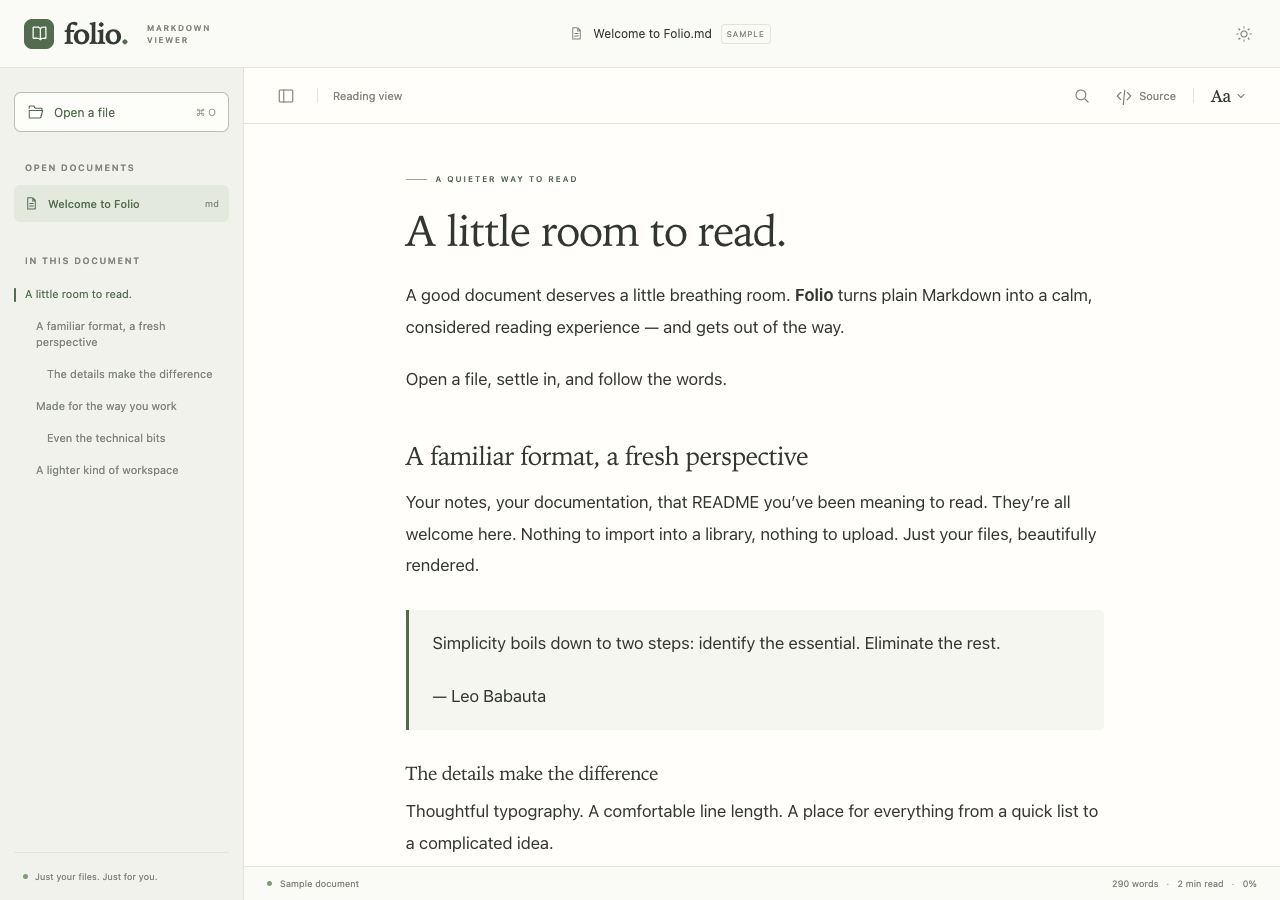
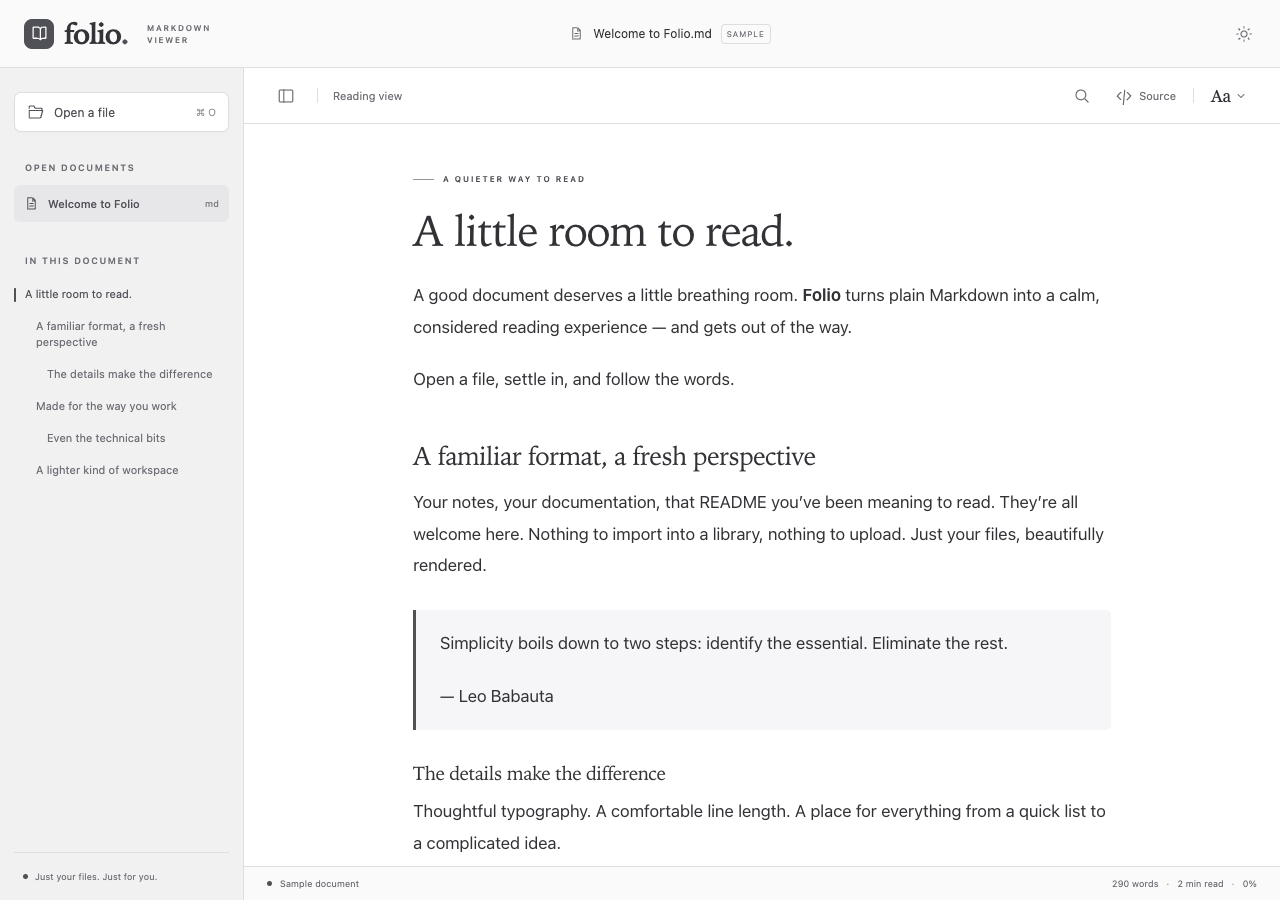
Add a neutral palette and custom reading tint

diff --git a/src/main.ts b/src/main.ts
@@ -2,6 +2,7 @@ import './reader.css';
 import './style.css';
 import { renderMarkdown } from './renderer';
 import { sample } from './sample';
+import { applyTint, normalizeTint } from './tint';
 import { capturePosition, restorePosition, scrollInstantly } from './reading-position';
 import { documentFromFile, isDesktop, native, openLink, type MarkdownDocument } from './platform';
 
@@ -36,12 +37,18 @@ let activeHeading = '';
 let toastTimer: ReturnType<typeof setTimeout>;
 let fontSize = 17;
 const readingStyles = [
-  { id: 'folio', name: 'Folio', description: 'Warm & spacious' },
+  { id: 'folio', name: 'Folio', description: 'Calm & spacious' },
   { id: 'code', name: 'VS Code', description: 'Compact & technical' },
   { id: 'writer', name: 'iA Writer', description: 'Classic serif' },
   { id: 'github', name: 'GitHub', description: 'Familiar & structured' },
 ] as const;
 let readingStyle: string = 'folio';
+let tint: string | null = null;
+const tintSwatches = [
+  { name: 'Blue', color: '#5776c8' }, { name: 'Purple', color: '#9365b8' },
+  { name: 'Rose', color: '#b96683' }, { name: 'Amber', color: '#bd8844' },
+  { name: 'Sage', color: '#638568' },
+];
 interface EditorInfo { name: string; path: string }
 let preferredEditor: EditorInfo | null = null;
 let editorBusy = false;
@@ -58,6 +65,7 @@ try {
   const settings = JSON.parse(localStorage.getItem('folio:settings') || '{}');
   if (['light','dark','system'].includes(settings.theme)) theme = settings.theme;
   if (readingStyles.some(style => style.id === settings.readingStyle)) readingStyle = settings.readingStyle;
+  tint = normalizeTint(settings.tint);
   if (Number.isFinite(settings.fontSize)) fontSize = Math.min(23, Math.max(14, settings.fontSize));
 } catch { /* Browser storage is optional. */ }
 
@@ -84,7 +92,7 @@ $('#app').innerHTML = `
       <footer class="statusbar"><div><span class="status-dot"></span><span id="file-status">Sample document</span><button id="reload" class="small-button" title="Reload from disk" aria-label="Reload from disk" hidden>${icon('refresh')}</button></div><div><span id="word-count"></span><span class="status-separator">·</span><span id="reading-time"></span><span class="status-separator">·</span><span id="reading-progress">0%</span></div></footer>
     </main>
   </div>
-  <div id="settings" class="settings-popover" hidden><div class="eyebrow">READING STYLE</div><div class="reading-styles">${readingStyles.map(style => `<button data-reading-style-option="${style.id}" aria-pressed="false"><span>${style.name}</span><small>${style.description}</small></button>`).join('')}</div><p class="settings-note">Inspired styles. Your Markdown stays unchanged.</p><div class="settings-divider"></div><div class="eyebrow">APPEARANCE</div><div class="theme-options">${['light','dark','system'].map((t,i) => `<button data-theme-option="${t}" aria-pressed="false">${icon(['sun','moon','monitor'][i])}<span>${t[0].toUpperCase()+t.slice(1)}</span></button>`).join('')}</div><div class="settings-divider"></div><div class="size-control"><span>Reading size</span><div><button id="smaller" aria-label="Decrease reading size">A−</button><output id="font-size"></output><button id="larger" aria-label="Increase reading size">A+</button></div></div><button id="reset-size" class="reset-button">Reset to default</button><div id="editor-settings" hidden><div class="settings-divider"></div><div class="eyebrow">EXTERNAL EDITOR</div><button id="choose-editor" class="editor-choice"><span id="editor-name">Choose an editor…</span>${icon('open')}</button><p class="settings-note">Save there. Folio refreshes here.</p></div></div>
+  <div id="settings" class="settings-popover" hidden><div class="eyebrow">READING STYLE</div><div class="reading-styles">${readingStyles.map(style => `<button data-reading-style-option="${style.id}" aria-pressed="false"><span>${style.name}</span><small>${style.description}</small></button>`).join('')}</div><p class="settings-note">Inspired styles. Your Markdown stays unchanged.</p><div class="settings-divider"></div><div class="eyebrow">APPEARANCE</div><div class="theme-options">${['light','dark','system'].map((t,i) => `<button data-theme-option="${t}" aria-pressed="false">${icon(['sun','moon','monitor'][i])}<span>${t[0].toUpperCase()+t.slice(1)}</span></button>`).join('')}</div><div class="settings-divider"></div><div class="eyebrow">TINT</div><div class="tint-controls"><label class="tint-picker"><input id="tint-picker" type="color" value="#5776c8" aria-label="Custom tint color" /><span>Custom color<output id="tint-value">Neutral</output></span></label><button id="neutral-tint" class="tint-neutral" aria-pressed="true">Neutral</button></div><div class="tint-swatches" role="group" aria-label="Tint presets">${tintSwatches.map(swatch => `<button class="tint-swatch" data-tint="${swatch.color}" style="--swatch:${swatch.color}" aria-label="${swatch.name} tint" title="${swatch.name}" aria-pressed="false"></button>`).join('')}</div><p class="settings-note">Choose a color for accents and a subtle page tint.</p><div class="settings-divider"></div><div class="size-control"><span>Reading size</span><div><button id="smaller" aria-label="Decrease reading size">A−</button><output id="font-size"></output><button id="larger" aria-label="Increase reading size">A+</button></div></div><button id="reset-size" class="reset-button">Reset to default</button><div id="editor-settings" hidden><div class="settings-divider"></div><div class="eyebrow">EXTERNAL EDITOR</div><button id="choose-editor" class="editor-choice"><span id="editor-name">Choose an editor…</span>${icon('open')}</button><p class="settings-note">Save there. Folio refreshes here.</p></div></div>
   <div id="drop-overlay" class="drop-overlay" hidden><div>${icon('open')}<h2>A good place for your words.</h2><p>Drop a Markdown file to start reading.</p></div></div>
   <div id="toast" class="toast" role="status" hidden></div>
   <input id="file-input" type="file" accept=".md,.markdown,.mdown,.mkd,text/markdown" hidden />
@@ -95,6 +103,11 @@ function settings() {
   const position = capturePosition($('#reading-scroll'), sourceMode ? $('#source-content') : $('#reader'));
   document.documentElement.dataset.theme = theme;
   document.documentElement.dataset.readingStyle = readingStyle;
+  applyTint(document.documentElement, tint);
+  if (tint) ($<HTMLInputElement>('#tint-picker')).value = tint;
+  $('#tint-value').textContent = tint ? tint.toUpperCase() : 'Neutral';
+  $('#neutral-tint').setAttribute('aria-pressed', String(tint === null));
+  document.querySelectorAll<HTMLButtonElement>('[data-tint]').forEach(button => button.setAttribute('aria-pressed', String(button.dataset.tint === tint)));
   document.documentElement.style.setProperty('--reading-size', `${fontSize}px`);
   $('#font-size').textContent = `${fontSize}`;
   document.querySelectorAll<HTMLButtonElement>('[data-theme-option]').forEach(button => button.setAttribute('aria-pressed', String(button.dataset.themeOption === theme)));
@@ -102,7 +115,7 @@ function settings() {
   restorePosition($('#reading-scroll'), sourceMode ? $('#source-content') : $('#reader'), position);
   $('#smaller').toggleAttribute('disabled', fontSize <= 14);
   $('#larger').toggleAttribute('disabled', fontSize >= 23);
-  try { localStorage.setItem('folio:settings', JSON.stringify({ theme, fontSize, readingStyle })); } catch { /* Optional. */ }
+  try { localStorage.setItem('folio:settings', JSON.stringify({ theme, fontSize, readingStyle, tint })); } catch { /* Optional. */ }
 }
 function notify(message: string) {
   const toast = $('#toast'); toast.textContent = message; toast.hidden = false;
@@ -318,6 +331,14 @@ $('#appearance').addEventListener('click', toggleSettings); $('#type').addEventL
 $('#settings').addEventListener('click', event => { const style = (event.target as Element).closest<HTMLElement>('[data-reading-style-option]')?.dataset.readingStyleOption; if (readingStyles.some(item => item.id === style)) { readingStyle = style!; settings(); } const option = (event.target as Element).closest<HTMLElement>('[data-theme-option]')?.dataset.themeOption; if (option) { theme = option as typeof theme; settings(); } });
 $('#smaller').addEventListener('click', () => { fontSize = Math.max(14,fontSize-1); settings(); });
 $('#larger').addEventListener('click', () => { fontSize = Math.min(23,fontSize+1); settings(); });
+for (const event of ['input', 'change']) $('#tint-picker').addEventListener(event, () => {
+  tint = normalizeTint($<HTMLInputElement>('#tint-picker').value); settings();
+});
+$('#neutral-tint').addEventListener('click', () => { tint = null; settings(); });
+$('.tint-swatches').addEventListener('click', event => {
+  const color = (event.target as Element).closest<HTMLElement>('[data-tint]')?.dataset.tint;
+  if (color) { tint = normalizeTint(color); settings(); }
+});
 $('#reset-size').addEventListener('click', () => { fontSize = 17; settings(); });
 $('#reload').addEventListener('click', () => { void refreshDocument(); });
 $('#edit-external').addEventListener('click', () => attempt(editExternally));

diff --git a/src/style.css b/src/style.css
@@ -1,17 +1,31 @@
+/* Neutral defaults; custom tint overrides only these palette variables. */
 :root {
-  --app-bg: #fafaf6; --sidebar-bg: #f1f2ec; --paper: #fdfdf9; --text: #343b34; --muted: #80867b; --subtle: #a0a599;
-  --border: #e2e5da; --accent: #536c4f; --active: #e3e9dc; --hover: #e9ede2; --shadow: 0 14px 50px #2535211a;
+  --app-light-bg: #fafafa; --app-light-sidebar: #f1f1f2; --app-light-paper: #ffffff;
+  --app-light-border: #dedee1; --app-light-accent: #505057; --app-light-active: #e7e7ea; --app-light-hover: #ececef;
+  --app-dark-bg: #1b1b1e; --app-dark-sidebar: #18181b; --app-dark-paper: #212124;
+  --app-dark-border: #3b3b40; --app-dark-accent: #c5c5cd; --app-dark-active: #35353c; --app-dark-hover: #2e2e34;
+  --app-bg: var(--app-light-bg); --sidebar-bg: var(--app-light-sidebar); --paper: var(--app-light-paper);
+  --border: var(--app-light-border); --accent: var(--app-light-accent); --active: var(--app-light-active); --hover: var(--app-light-hover);
+  --text: #343438; --muted: #6d6d74; --subtle: #96969e; --shadow: 0 14px 50px #18181b1a;
   font-family: -apple-system, BlinkMacSystemFont, 'Segoe UI', sans-serif; color: var(--text); background: var(--paper); font-synthesis: none;
 }
-:root[data-theme='dark'] { --app-bg:#202420; --sidebar-bg:#1c211c; --paper:#242923; --text:#dfe5db; --muted:#9ba594; --subtle:#737e6d; --border:#343e31; --accent:#b1c7a3; --active:#33402e; --hover:#2e3829; --shadow:0 14px 50px #0005; }
-@media(prefers-color-scheme:dark) { :root:not([data-theme='light']) { --app-bg:#202420; --sidebar-bg:#1c211c; --paper:#242923; --text:#dfe5db; --muted:#9ba594; --subtle:#737e6d; --border:#343e31; --accent:#b1c7a3; --active:#33402e; --hover:#2e3829; --shadow:0 14px 50px #0005; } }
+:root[data-theme='dark'] {
+  --app-bg: var(--app-dark-bg); --sidebar-bg: var(--app-dark-sidebar); --paper: var(--app-dark-paper);
+  --border: var(--app-dark-border); --accent: var(--app-dark-accent); --active: var(--app-dark-active); --hover: var(--app-dark-hover);
+  --text: #e4e4e8; --muted: #a6a6b0; --subtle: #797982; --shadow: 0 14px 50px #0005;
+}
+@media(prefers-color-scheme:dark) { :root:not([data-theme='light']) {
+  --app-bg: var(--app-dark-bg); --sidebar-bg: var(--app-dark-sidebar); --paper: var(--app-dark-paper);
+  --border: var(--app-dark-border); --accent: var(--app-dark-accent); --active: var(--app-dark-active); --hover: var(--app-dark-hover);
+  --text: #e4e4e8; --muted: #a6a6b0; --subtle: #797982; --shadow: 0 14px 50px #0005;
+} }
 * { box-sizing: border-box; }
 body { margin: 0; overflow:hidden; }
 button, input { font: inherit; }
 button { color: inherit; cursor: pointer; }
 button:disabled { opacity:.4; cursor:default; }
 button, a, input { -webkit-tap-highlight-color:transparent; }
-button:focus-visible, a:focus-visible { outline:2px solid var(--accent); outline-offset:3px; }
+button:focus-visible, a:focus-visible, input:focus-visible { outline:2px solid var(--accent); outline-offset:3px; }
 [hidden] { display:none !important; }
 #app { display:flex; flex-direction:column; height:100dvh; min-height:300px; }
 .titlebar { height:68px; flex-shrink:0; display:grid; grid-template-columns:280px 1fr 64px; align-items:center; border-bottom:1px solid var(--border); background:var(--app-bg); padding:0 20px 0 24px; }
@@ -28,7 +42,7 @@ button:focus-visible, a:focus-visible { outline:2px solid var(--accent); outline
 .workspace { display:flex; min-height:0; flex:1; }
 .sidebar { width:244px; flex-shrink:0; display:flex; flex-direction:column; border-right:1px solid var(--border); padding:24px 14px 0; background:var(--sidebar-bg); }
 .sidebar-hidden .sidebar { display:none; }
-.open-button { border:1px solid #b8c4ae; background:var(--paper); color:var(--accent); border-radius:7px; height:40px; display:flex; align-items:center; gap:9px; width:100%; padding:0 12px; font-size:12px; box-shadow:0 2px 3px #29332304; }
+.open-button { border:1px solid var(--border); background:var(--paper); color:var(--accent); border-radius:7px; height:40px; display:flex; align-items:center; gap:9px; width:100%; padding:0 12px; font-size:12px; box-shadow:0 2px 3px #18181b04; }
 .open-button:hover { background:var(--hover); }
 .open-button kbd { font-size:10px; font-family:inherit; margin-left:auto; opacity:.6; white-space:nowrap; }
 .sidebar-section { margin-top:30px; }
@@ -49,7 +63,7 @@ button:focus-visible, a:focus-visible { outline:2px solid var(--accent); outline
 #outline a[aria-current]::before { content:''; height:14px; width:2px; position:absolute; top:10px; left:0; background:var(--accent); border-radius:2px; }
 .outline-empty { font-size:11px; color:var(--muted); padding:0 11px; line-height:1.6; }
 .sidebar-footer { display:flex; align-items:center; gap:7px; font-size:9px; color:var(--muted); border-top:1px solid var(--border); padding:18px 9px; }
-.privacy-dot,.status-dot { display:inline-block; width:5px; height:5px; border-radius:50%; background:#859a76; }
+.privacy-dot,.status-dot { display:inline-block; width:5px; height:5px; border-radius:50%; background:var(--accent); }
 .main { min-width:0; flex:1; display:flex; flex-direction:column; background:var(--reader-paper); }
 .toolbar { flex-shrink:0; height:56px; display:flex; justify-content:space-between; align-items:center; padding:0 26px; border-bottom:1px solid var(--border); }
 .toolbar-start,.toolbar-end { display:flex; align-items:center; gap:15px; }
@@ -116,3 +130,16 @@ button:focus-visible, a:focus-visible { outline:2px solid var(--accent); outline
 #editor-name { overflow:hidden; text-overflow:ellipsis; white-space:nowrap; }
 #edit-external { color:var(--accent); }
 @media(max-width:850px) { #edit-external span { display:none; } .toolbar-end { gap:5px; } }
+
+.tint-controls { display:flex; align-items:center; justify-content:space-between; gap:12px; margin-top:12px; }
+.tint-picker { display:flex; align-items:center; gap:10px; font-size:11px; cursor:pointer; }
+.tint-picker input { width:40px; height:32px; padding:3px; border:1px solid var(--border); border-radius:7px; background:var(--paper); cursor:pointer; }
+.tint-picker input::-webkit-color-swatch-wrapper { padding:0; }
+.tint-picker input::-webkit-color-swatch { border:0; border-radius:4px; }
+.tint-picker input::-moz-color-swatch { border:0; border-radius:4px; }
+#tint-value { display:block; font-size:9px; font-variant-numeric:tabular-nums; color:var(--muted); margin-top:4px; }
+.tint-neutral { border:1px solid var(--border); border-radius:6px; background:transparent; padding:8px 10px; font-size:10px; }
+.tint-neutral[aria-pressed='true'] { color:var(--accent); border-color:var(--accent); background:var(--active); }
+.tint-swatches { display:flex; gap:12px; margin-top:13px; }
+.tint-swatch { width:22px; height:22px; border:3px solid var(--paper); border-radius:50%; background:var(--swatch); box-shadow:0 0 0 1px var(--border); padding:0; }
+.tint-swatch[aria-pressed='true'] { box-shadow:0 0 0 2px var(--accent); }

diff --git a/tests/viewer.spec.ts b/tests/viewer.spec.ts
@@ -53,6 +53,73 @@ test('changes appearance and size without losing document', async ({ page }) => 
   await expect(page.locator('#font-size')).toHaveText('18');
 });
 
+test('tint previews live, persists independently and resets without changing the document', async ({ page }) => {
+  await page.emulateMedia({ colorScheme: 'light' });
+  const original = await page.locator('#reader').innerText();
+  const neutralPaper = await page.locator('.reading-scroll').evaluate(el => getComputedStyle(el).backgroundColor);
+  await page.getByRole('button', { name: 'Appearance settings' }).click();
+  await page.getByRole('button', { name: 'Purple tint', exact: true }).click();
+  await expect(page.locator('#tint-value')).toHaveText('#9365B8');
+  await expect(page.getByRole('button', { name: 'Purple tint', exact: true })).toHaveAttribute('aria-pressed', 'true');
+  expect(await page.locator('.reading-scroll').evaluate(el => getComputedStyle(el).backgroundColor)).not.toBe(neutralPaper);
+  await page.locator('#tint-picker').evaluate((el: HTMLInputElement) => {
+    el.value = '#3467ba'; el.dispatchEvent(new Event('input', { bubbles: true }));
+  });
+  await expect(page.locator('#tint-value')).toHaveText('#3467BA');
+  await page.locator('[data-reading-style-option="writer"]').click();
+  await page.getByRole('button', { name: 'Dark', exact: true }).click();
+  await page.getByRole('button', { name: 'Increase reading size' }).click();
+  expect(await page.locator('#reader').innerText()).toBe(original);
+  await page.reload();
+  await expect(page.locator('html')).toHaveAttribute('data-reading-style', 'writer');
+  await expect(page.locator('html')).toHaveAttribute('data-theme', 'dark');
+  await expect(page.locator('#font-size')).toHaveText('18');
+  await expect(page.locator('#tint-picker')).toHaveValue('#3467ba');
+  await page.getByRole('button', { name: 'Appearance settings' }).click();
+  await page.getByRole('button', { name: 'Neutral', exact: true }).click();
+  await expect(page.locator('#tint-value')).toHaveText('Neutral');
+  await expect(page.locator('html')).toHaveAttribute('data-reading-style', 'writer');
+  await expect(page.locator('#font-size')).toHaveText('18');
+  await page.locator('[data-reading-style-option="folio"]').click();
+  await page.getByRole('button', { name: 'Light', exact: true }).click();
+  expect(await page.locator('.reading-scroll').evaluate(el => getComputedStyle(el).backgroundColor)).toBe(neutralPaper);
+  expect(await page.locator('#reader').innerText()).toBe(original);
+  expect(await page.evaluate(() => JSON.parse(localStorage.getItem('folio:settings')!).tint)).toBeNull();
+});
+
+test('custom accents remain readable for extreme colors in every reading style and system theme', async ({ page }) => {
+  // Use actual computed foreground/background pairs, not the tint implementation.
+  const contrast = (foreground: string, background: string) => {
+    const luminance = (rgb: string) => rgb.match(/[\d.]+/g)!.slice(0, 3)
+      .map(Number).map(n => n / 255).map(n => n <= .04045 ? n / 12.92 : ((n + .055) / 1.055) ** 2.4)
+      .reduce((sum, n, i) => sum + n * [.2126, .7152, .0722][i], 0);
+    const values = [luminance(foreground), luminance(background)].sort((a, b) => a - b);
+    return (values[1] + .05) / (values[0] + .05);
+  };
+  await page.getByRole('button', { name: 'Appearance settings' }).click();
+  await page.getByRole('button', { name: 'System', exact: true }).click();
+  for (const colorScheme of ['light', 'dark'] as const) {
+    await page.emulateMedia({ colorScheme });
+    for (const style of ['folio', 'writer', 'code', 'github']) {
+      await page.locator(`[data-reading-style-option="${style}"]`).click();
+      for (const color of ['#ffffff', '#000000', '#ffff00', '#00ff00', '#0000ff', '#ff0000']) {
+        await page.locator('#tint-picker').evaluate((el: HTMLInputElement, value) => {
+          el.value = value; el.dispatchEvent(new Event('input', { bubbles: true }));
+        }, color);
+        const colors = await page.evaluate(() => {
+          const reader = getComputedStyle(document.querySelector('.reading-scroll')!);
+          const link = getComputedStyle(document.querySelector('#reader a')!);
+          const selected = getComputedStyle(document.querySelector('[data-theme-option][aria-pressed="true"]')!);
+          return [[link.color, reader.backgroundColor], [selected.color, selected.backgroundColor]];
+        });
+        for (const [foreground, background] of colors) {
+          expect(contrast(foreground, background), `${style} ${colorScheme} ${color}`).toBeGreaterThanOrEqual(4.5);
+        }
+      }
+    }
+  }
+});
+
 test('rejects non-Markdown and invalid UTF-8 files and keeps current document', async ({ page }) => {
   await page.locator('#file-input').setInputFiles({ name: 'bad.txt', mimeType: 'text/plain', buffer: Buffer.from('bad') });
   await expect(page.locator('#toast')).toContainText('Choose a Markdown file');

diff --git a/src/tint.ts b/src/tint.ts
@@ -1,0 +1,68 @@
+// Tint the existing palette so reading presets keep their own light/dark bases.
+// Calculated colors also work on WebViews that predate CSS color-mix().
+type RGB = [number, number, number];
+
+export function normalizeTint(value: unknown): string | null {
+  return typeof value === 'string' && /^#[\da-f]{6}$/i.test(value) ? value.toLowerCase() : null;
+}
+
+function rgb(hex: string): RGB {
+  return [1, 3, 5].map(offset => parseInt(hex.slice(offset, offset + 2), 16)) as RGB;
+}
+
+function mix(base: string, tint: string, amount: number): string {
+  const color = rgb(tint);
+  return '#' + rgb(base).map((channel, i) => Math.round(channel + (color[i] - channel) * amount).toString(16).padStart(2, '0')).join('');
+}
+
+function luminance(color: string): number {
+  const channels = rgb(color).map(channel => {
+    const value = channel / 255;
+    return value <= .04045 ? value / 12.92 : ((value + .055) / 1.055) ** 2.4;
+  });
+  return channels[0] * .2126 + channels[1] * .7152 + channels[2] * .0722;
+}
+
+function contrast(first: string, second: string): number {
+  const a = luminance(first), b = luminance(second);
+  return (Math.max(a, b) + .05) / (Math.min(a, b) + .05);
+}
+
+const surfaces = {
+  app: { bg: .04, sidebar: .08, paper: .025, border: .14, active: .18, hover: .12 },
+  reader: { paper: .025, rule: .14, code: .05, quote: .05, selection: .24 },
+} as const;
+
+const properties = (['light', 'dark'] as const).flatMap(scheme =>
+  Object.entries(surfaces).flatMap(([area, roles]) =>
+    [...Object.keys(roles), 'accent'].map(role => `--${area}-${scheme}-${role}`)));
+
+export function applyTint(root: HTMLElement, value: string | null) {
+  // Always start from stylesheet defaults, including a newly selected preset.
+  // Removing only our overrides leaves reading size and other preferences alone.
+  properties.forEach(property => root.style.removeProperty(property));
+  const tint = normalizeTint(value);
+  if (!tint) return;
+  const defaults = getComputedStyle(root);
+  const colors: Record<string, string> = {};
+  for (const scheme of ['light', 'dark'] as const) {
+    for (const [area, roles] of Object.entries(surfaces)) {
+      for (const [role, amount] of Object.entries(roles)) {
+        const property = `--${area}-${scheme}-${role}`;
+        colors[property] = mix(defaults.getPropertyValue(property).trim(), tint, amount);
+      }
+    }
+    // A bright yellow or very dark custom color still needs a readable accent.
+    // Include selected/hover surfaces, where small control labels use this color.
+    const backgrounds = ['app-bg', 'app-sidebar', 'app-paper', 'app-active', 'app-hover', 'reader-paper', 'reader-code', 'reader-quote']
+      .map(key => { const [area, role] = key.split('-'); return colors[`--${area}-${scheme}-${role}`]; });
+    let accent = tint;
+    for (let step = 0; step <= 100; step++) {
+      accent = mix(tint, scheme === 'light' ? '#000000' : '#ffffff', step / 100);
+      if (backgrounds.every(background => contrast(accent, background) >= 4.5)) break;
+    }
+    colors[`--app-${scheme}-accent`] = accent;
+    colors[`--reader-${scheme}-accent`] = accent;
+  }
+  Object.entries(colors).forEach(([property, color]) => root.style.setProperty(property, color));
+}

diff --git a/src/reader.css b/src/reader.css
@@ -6,26 +6,26 @@
   --reader-heading-font: "Iowan Old Style", "Palatino Linotype", "Book Antiqua", Palatino, Georgia, serif;
   --reader-line-height: 1.85;
   --reader-paragraph-space: 1.25em;
-  --reader-light-paper: #fffefa;
-  --reader-light-text: #323630;
-  --reader-light-muted: #788075;
-  --reader-light-accent: #526b48;
-  --reader-light-rule: #e6e8df;
-  --reader-light-code: #f4f5ee;
-  --reader-light-quote: #f5f6ef;
-  --reader-light-selection: #dce8ce;
+  --reader-light-paper: #ffffff;
+  --reader-light-text: #323236;
+  --reader-light-muted: #6d6d74;
+  --reader-light-accent: #505057;
+  --reader-light-rule: #e2e2e6;
+  --reader-light-code: #f5f5f7;
+  --reader-light-quote: #f6f6f8;
+  --reader-light-selection: #e0e0e6;
   --reader-light-keyword: #85604d;
   --reader-light-string: #4c7350;
   --reader-light-number: #9a6840;
   --reader-light-title: #557693;
-  --reader-dark-paper: #22251f;
-  --reader-dark-text: #e1e5d9;
-  --reader-dark-muted: #a2ad98;
-  --reader-dark-accent: #b0c59b;
-  --reader-dark-rule: #3d4337;
-  --reader-dark-code: #2c3027;
-  --reader-dark-quote: #2b3026;
-  --reader-dark-selection: #4f6141;
+  --reader-dark-paper: #212124;
+  --reader-dark-text: #e4e4e8;
+  --reader-dark-muted: #a6a6b0;
+  --reader-dark-accent: #c5c5cd;
+  --reader-dark-rule: #3b3b40;
+  --reader-dark-code: #2b2b30;
+  --reader-dark-quote: #29292e;
+  --reader-dark-selection: #454550;
   --reader-dark-keyword: #dbb59b;
   --reader-dark-string: #a5c58d;
   --reader-dark-number: #dcba81;

diff --git a/README.md b/README.md
@@ -14,7 +14,7 @@
 Open a Markdown file and get straight to the words. Folio keeps your source untouched and gives it comfortable spacing, readable code, and a clear outline. When you want to make a change, **Open in Editor** sends the same file to your chosen editor. Save there, and Folio refreshes while keeping your place.
 
 - **Four reading styles:** Folio, VS Code-inspired, iA Writer Classic-inspired, and GitHub-inspired.
-- **Your preferred appearance:** light, dark, or system, with adjustable text size and remembered settings.
+- **Your preferred appearance:** light, dark, or system, with a neutral default, custom color tint, adjustable text size, and remembered settings.
 - **Easy navigation:** a heading outline, document search, and a read-only source view.
 - **Markdown essentials:** tables, highlighted code, task lists, footnotes, and local raster images.
 - **Mac Quick Look:** an included native extension for Finder’s Space-bar preview.
@@ -83,7 +83,9 @@ Omarchy support is being investigated. The Linux AppImage is a candidate, and an
 
 ## Make it yours
 
-Open **Appearance** (the **Aa** button) to choose a reading style, theme, or text size. The styles use local system fonts, so details vary by platform. They are original CSS inspired by familiar reading experiences, not exact replicas or affiliated products.
+Open **Appearance** (the **Aa** button) to choose a reading style, theme, tint, or text size. Under **Tint**, pick a swatch or click **Custom color** to open your system’s color picker. Changes preview immediately and are remembered. **Neutral** restores the selected style’s original palette. Tint affects accents and adds a subtle wash to the page; it leaves your Markdown unchanged. These preferences apply to the app; Quick Look uses the neutral Folio default.
+
+The styles use local system fonts, so details vary by platform. They are original CSS inspired by familiar reading experiences, not exact replicas or affiliated products.
 
 Choose **Open in Editor** to pick your editor once. On Mac, select its `.app`; on Windows, its `.exe`; on Linux, its executable. Change that choice under **Appearance → External Editor**. Folio watches the current file, including editors that save by replacing it, and preserves the visible paragraph when it refreshes. Source view keeps its proportional scroll position.
 

diff --git a/docs/ARCHITECTURE.md b/docs/ARCHITECTURE.md
@@ -6,6 +6,7 @@ Folio is a desktop-first Markdown viewer with a shared rendering core. Mobile is
 
 - `src/renderer.ts`: synchronous Markdown → HTML, headings, approximate reading statistics. No DOM, file access, or native API. Bundles to `FolioRenderer` for JavaScriptCore.
 - `src/reader.css`: common typography, code colors, and themes. App chrome is separate in `src/style.css`.
+- `src/tint.ts`: optional color tint over the CSS palette for both app chrome and reading surfaces. Reads each preset’s default tokens, prepares light/dark variants, and adjusts accent contrast against their backgrounds. Preferences store only the chosen hex color (or `null` for neutral), alongside style, theme, and size.
 - `src/main.ts`: document selection, outline, source view, search, theme/size controls, and presentation. Keeps original source separate from rendered HTML.
 - `src/reading-position.ts`: captures the visible block and nearby headings, restores that anchor after document changes, and falls back to proportional position when no matching block survives. Explicit navigation invalidates late image restoration.
 - `src/platform.ts`: browser/desktop boundary and common document shape `{ name, path, content }`.
@@ -31,7 +32,7 @@ Do not add a plugin framework until a concrete feature requires it. Reasonable n
 
 - TypeScript and production frontend build pass.
 - 8 renderer tests pass: syntax, tasks/footnotes, IDs, Unicode, escaping, safe links/images, and reading statistics.
-- 11 browser interaction tests pass: baseline viewing, style persistence, editor selection/cancellation, automatic save refresh, temporary disappearance, source position, stale-response protection, and late-image navigation.
+- Browser interaction tests cover baseline viewing, style/tint persistence, accent contrast, editor selection/cancellation, automatic save refresh, temporary disappearance, source position, stale-response protection, and late-image navigation.
 - 19 Rust tests pass: document/security checks, editor validation and persistence, literal launch arguments, actual in-place and atomic saves, debounce timing, and worker shutdown.
 - Universal native Quick Look compile and JavaScriptCore smoke tests pass.
 - Complete Mac app and nested Quick Look extension pass strict code-signature verification using ad-hoc signing.
